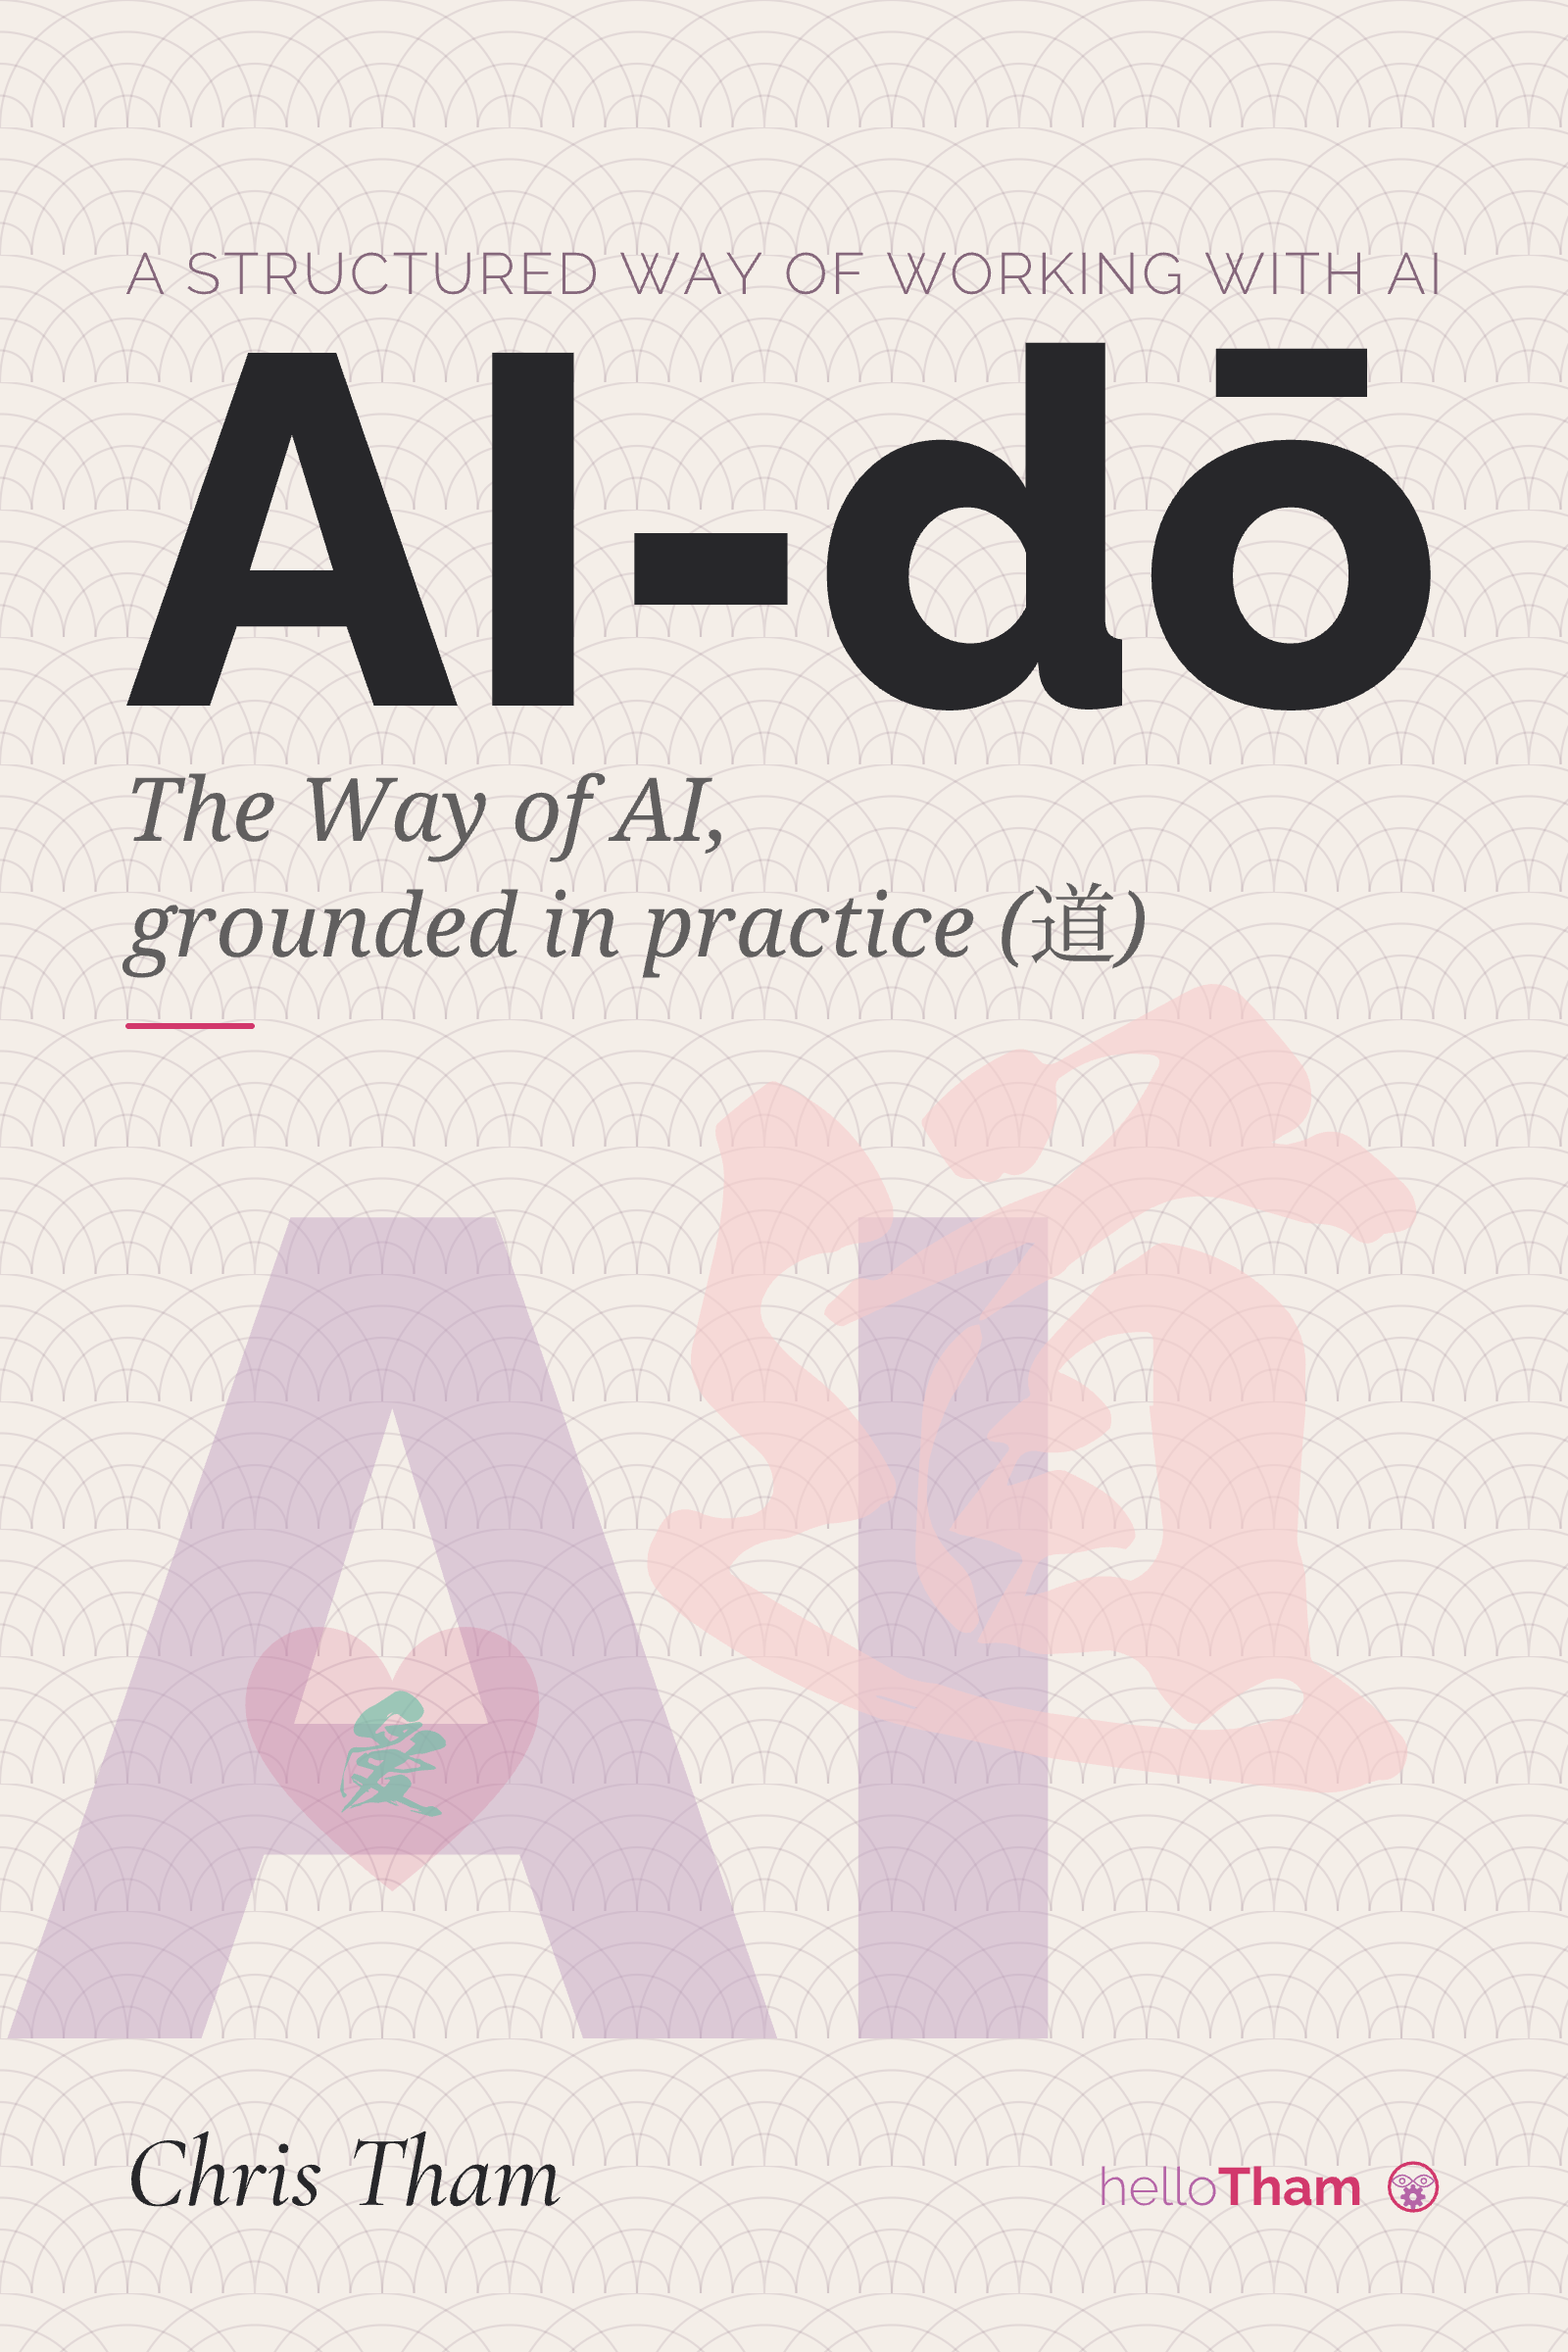
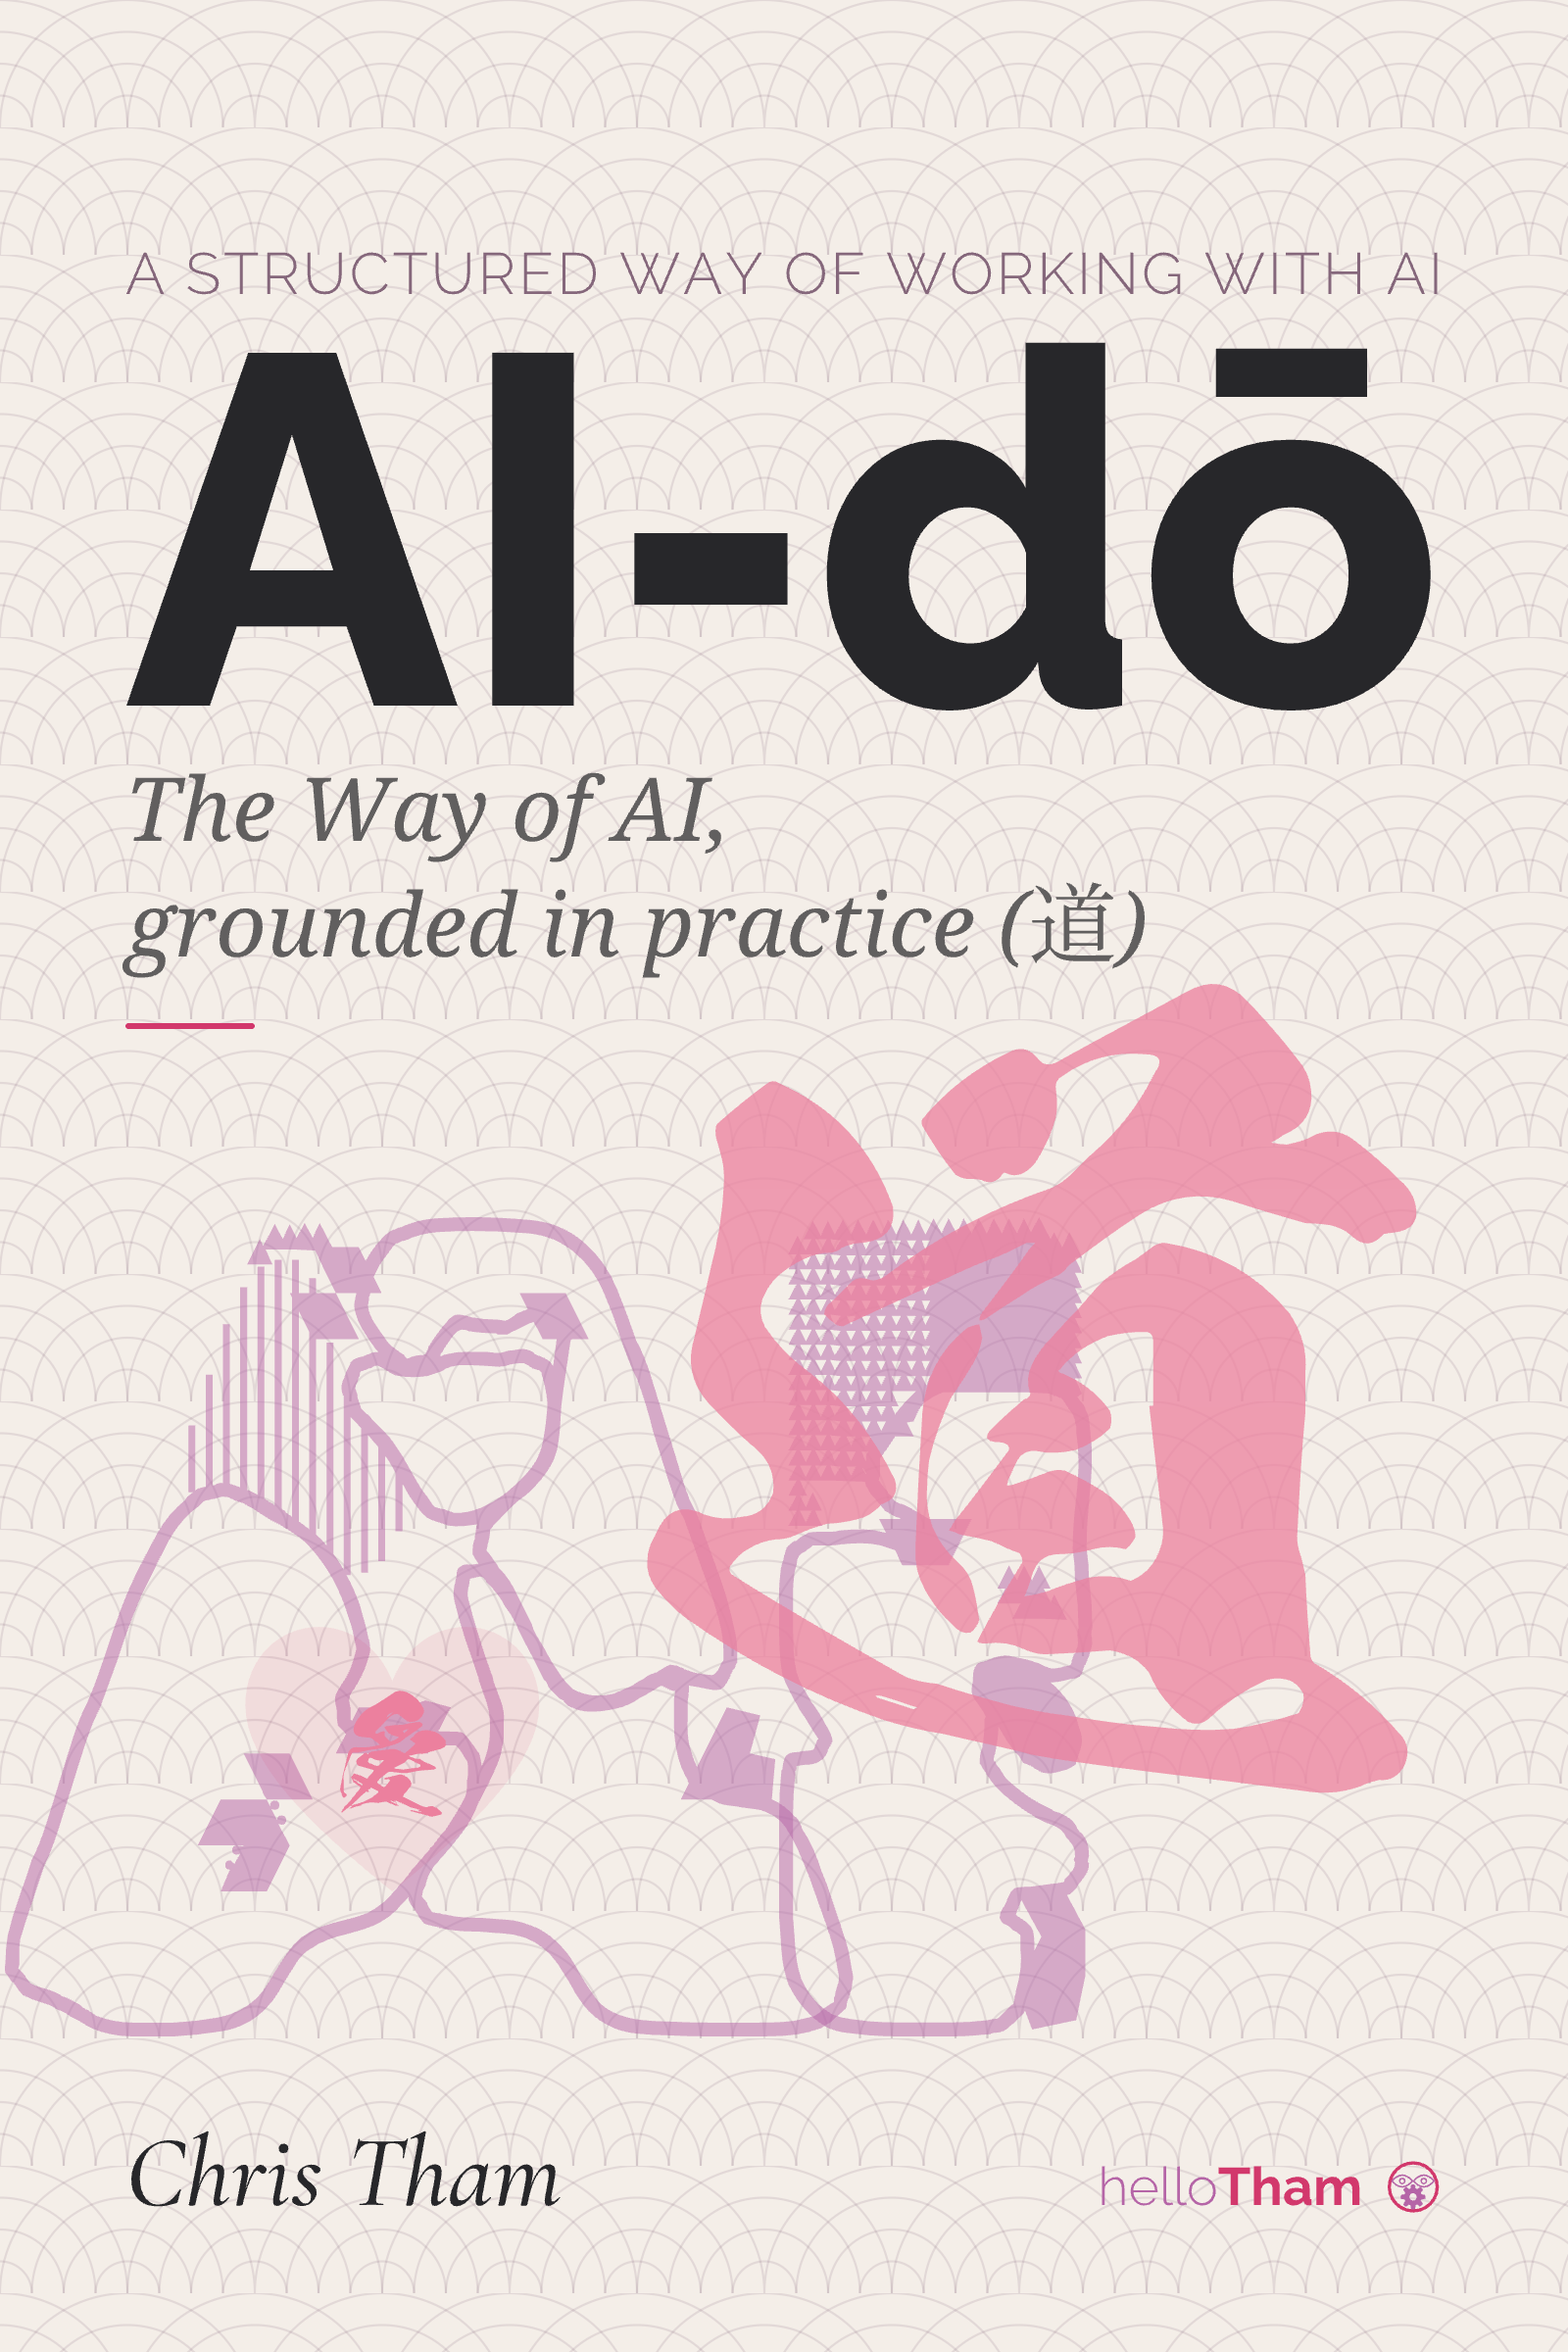
Cover: Rubik Glitch Pop "AI"; Radiant Orchid + Morning Glory kanji
- "AI" letters re-outlined from Rubik Glitch Pop (was Raleway), filled
  Radiant Orchid #B565A7 at 50%.
- 道 recoloured to Morning Glory #EC809E at 75% (was blossom #F7CACA).
- 愛 recoloured to Morning Glory #EC809E, fully opaque.
- SKILL.md (both mirrors): note the "AI" font is now Rubik Glitch Pop.

Changed region(s): [[0.0, 0.4062, 0.9062, 0.875]]

diff --git a/.claude/skills/book-build/SKILL.md b/.claude/skills/book-build/SKILL.md
@@ -87,8 +87,9 @@ using `var(--r-*)`.
 Source of truth is **`images/cover.svg`** (self-contained: outlined glyph paths
 + a vector seigaiha pattern). The 道 / 愛 kanji are outlined from **KokuryuSou**
 (Adobe brush face — see *Chapter art* for the licence/activation note); the
-"AI" letters are outlined Raleway. To re-swap the kanji font, re-outline them
-into the same on-canvas boxes and rewrite `cover.svg`. Rasterise to
+"AI" letters are outlined from **Rubik Glitch Pop** (Google Fonts, OFL —
+freely downloadable/redistributable). To re-swap a glyph's font, re-outline it
+into the same on-canvas box and rewrite `cover.svg`. Rasterise to
 `images/cover.png` (1600×2400) with
 headless Chrome; the build copies `cover.png` into `quarto/` and wires it via
 `book: cover-image` (+ `typst-show.typ` for the PDF full-bleed cover):

diff --git a/.github/skills/book-build/SKILL.md b/.github/skills/book-build/SKILL.md
@@ -87,8 +87,9 @@ using `var(--r-*)`.
 Source of truth is **`images/cover.svg`** (self-contained: outlined glyph paths
 + a vector seigaiha pattern). The 道 / 愛 kanji are outlined from **KokuryuSou**
 (Adobe brush face — see *Chapter art* for the licence/activation note); the
-"AI" letters are outlined Raleway. To re-swap the kanji font, re-outline them
-into the same on-canvas boxes and rewrite `cover.svg`. Rasterise to
+"AI" letters are outlined from **Rubik Glitch Pop** (Google Fonts, OFL —
+freely downloadable/redistributable). To re-swap a glyph's font, re-outline it
+into the same on-canvas box and rewrite `cover.svg`. Rasterise to
 `images/cover.png` (1600×2400) with
 headless Chrome; the build copies `cover.png` into `quarto/` and wires it via
 `book: cover-image` (+ `typst-show.typ` for the PDF full-bleed cover):
